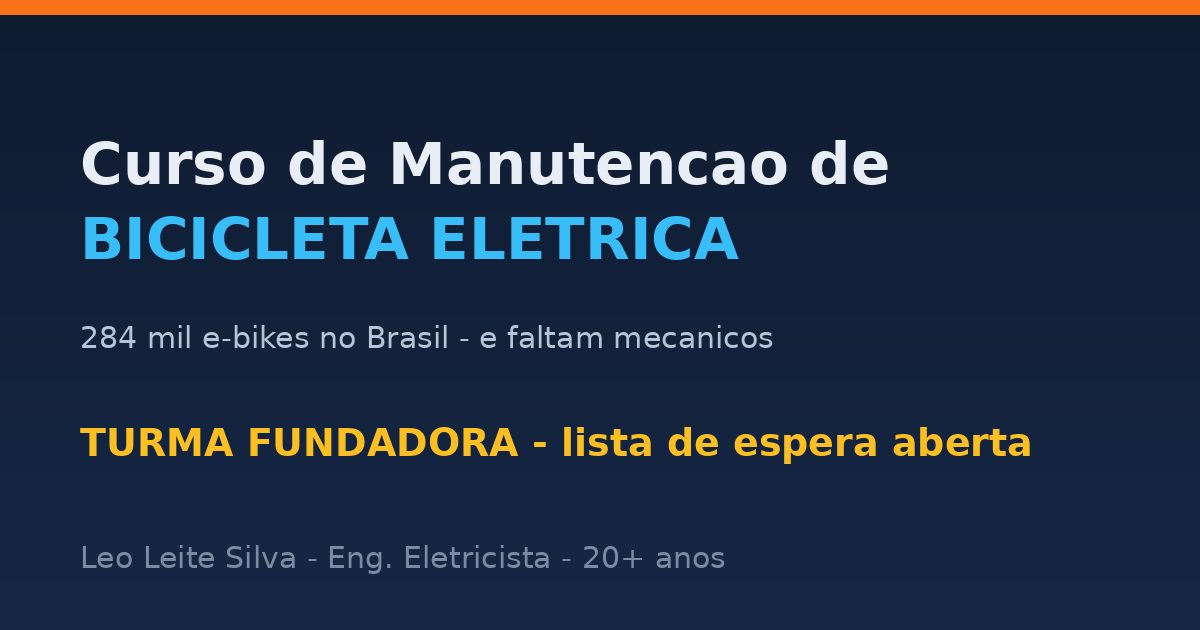
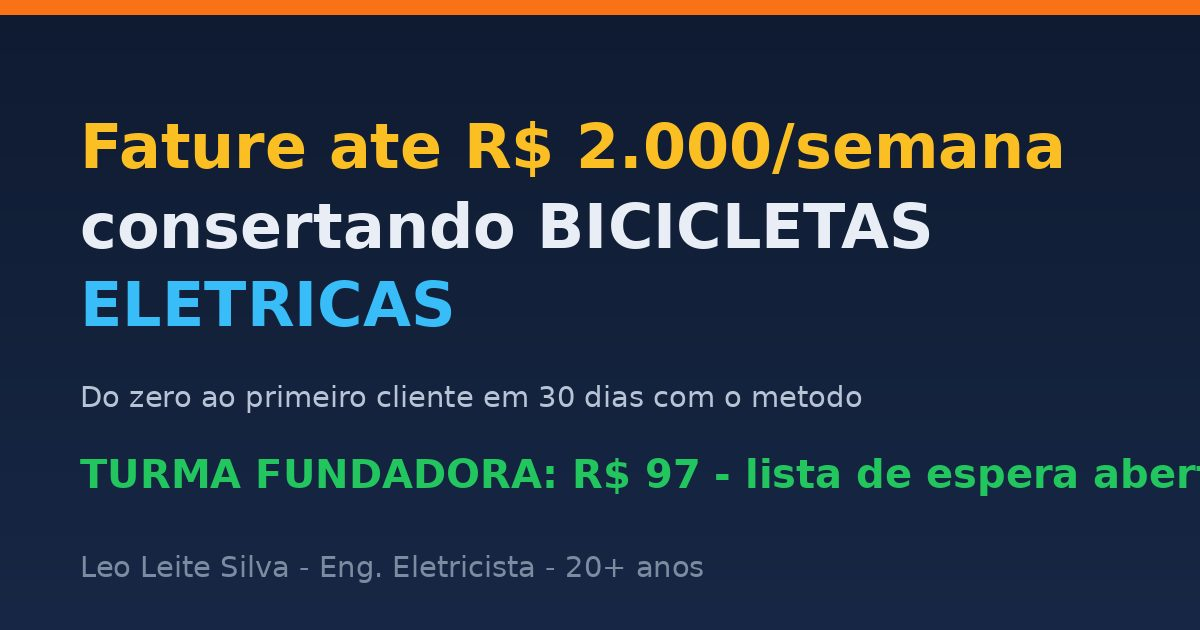
Headline com promessa específica e preço definido pelo autor (R$ 97)
- Headline nova: 'Fature até R$ 2.000 por semana consertando bicicletas
  elétricas — do zero ao primeiro cliente em 30 dias com o método'
- Bloco 'faça a conta' sustenta a promessa com preços reais de mercado
  (revisão R$ 150-300; 10 revisões = R$ 2.000/semana)
- Oferta de fundador atualizada para R$ 97 (menor preço do curso)
- Title, meta, og-image e roteiro de VSL alinhados à nova promessa
- Skill atualizada: pergunta de preço agora é aberta (decisão do usuário),
  nova pergunta 5b da métrica da promessa, fórmula da promessa específica
  obrigatória na headline (resultado numérico + prazo + entregável) com
  'conta na página', e gate obrigatório de aprovação das 3 headlines

Claude-Session: https://claude.ai/code/session_01U5WsPgLvWHzjd2fTvB7RAs

Changed region(s): [[0.0617, 0.181, 0.8942, 0.573], [0.0617, 0.6032, 1.0, 0.7841], [0.0617, 0.8444, 0.6167, 0.9349]]

diff --git a/curso-manutencao-bike-eletrica/index.html b/curso-manutencao-bike-eletrica/index.html
@@ -3,14 +3,14 @@
 <head>
 <meta charset="UTF-8">
 <meta name="viewport" content="width=device-width, initial-scale=1.0">
-<title>Curso de Manutenção de Bicicleta Elétrica — Turma Fundadora</title>
-<meta name="description" content="Aprenda manutenção de bicicleta elétrica e entre para a profissão que mais cresce na mobilidade. Lista de espera da turma fundadora com desconto exclusivo.">
+<title>Fature até R$ 2.000/semana Consertando Bicicleta Elétrica</title>
+<meta name="description" content="Do zero ao primeiro cliente em 30 dias: método de manutenção de bicicleta elétrica. Revisão custa R$ 150-300 e falta profissional. Turma fundadora por R$ 97.">
 <meta name="robots" content="index, follow">
 
 <meta property="og:type" content="website">
 <meta property="og:locale" content="pt_BR">
-<meta property="og:title" content="Curso de Manutenção de Bicicleta Elétrica — Turma Fundadora">
-<meta property="og:description" content="284 mil e-bikes rodando no Brasil e faltam mecânicos. Entre na lista de espera da turma fundadora com condição exclusiva.">
+<meta property="og:title" content="Fature até R$ 2.000/semana Consertando Bicicleta Elétrica">
+<meta property="og:description" content="Do zero ao primeiro cliente em 30 dias com o método. 284 mil e-bikes no Brasil e faltam mecânicos. Turma fundadora por R$ 97.">
 <meta property="og:image" content="assets/img/og.jpg">
 <meta name="twitter:card" content="summary_large_image">
 
@@ -101,6 +101,12 @@ h2{font-size:clamp(1.55rem,4vw,2.3rem);text-align:center;margin-bottom:14px;colo
 .stat-card b{display:block;color:var(--cyan);font-size:2.1rem;font-weight:800;line-height:1.1;margin-bottom:8px}
 .stat-card p{color:var(--gray-300);font-size:.93rem}
 .stat-src{text-align:center;color:var(--gray-500);font-size:.78rem;margin-top:18px}
+.conta-box{max-width:760px;margin:34px auto 0;background:var(--navy-700);border:2px solid var(--volt);
+  border-radius:var(--radius);padding:26px 28px;text-align:center}
+.conta-box h3{color:var(--volt);font-size:1.1rem;margin-bottom:10px}
+.conta-box p{color:var(--gray-100);font-size:1rem}
+.conta-box b{color:var(--white)}
+.conta-nota{margin-top:10px;font-size:.8rem;color:var(--gray-500)}
 
 /* DOR */
 .dor{background:linear-gradient(180deg,var(--navy-800),var(--navy-900))}
@@ -208,11 +214,12 @@ footer{padding:26px 20px;text-align:center;color:var(--gray-500);font-size:.84re
   <div class="container hero-grid">
     <div>
       <span class="badge">🔧 NOVA PROFISSÃO DA MOBILIDADE ELÉTRICA</span>
-      <h1>São <span class="hl">284 mil bicicletas elétricas</span> rodando no Brasil — e quase ninguém sabe consertá-las</h1>
+      <h1>Fature até <span class="hl">R$ 2.000 por semana</span> consertando bicicletas elétricas — do zero ao primeiro cliente em <span class="hl">30 dias</span> com o método</h1>
       <p class="subheadline">
-        Aprenda <strong>manutenção de bicicleta elétrica</strong> — motor, bateria de lítio,
-        controlador e diagnóstico — com um <strong>engenheiro eletricista com 20+ anos de
-        eletrônica</strong>, e cobre pelo serviço que as oficinas comuns não sabem fazer.
+        Uma revisão de e-bike custa <strong>R$ 150 a R$ 300</strong> — e são 284 mil rodando
+        no Brasil sem mecânico suficiente. O método te ensina <strong>motor, bateria e
+        diagnóstico</strong> com um engenheiro eletricista de 20+ anos, mesmo que você
+        <strong>nunca tenha mexido em elétrica</strong>.
       </p>
       <a class="cta-btn" href="#"><!-- TROCAR PELO LINK DA LISTA (WhatsApp/formulário) -->
         ⚡ QUERO ENTRAR NA TURMA FUNDADORA
@@ -266,6 +273,13 @@ footer{padding:26px 20px;text-align:center;color:var(--gray-500);font-size:.84re
       <div class="stat-card reveal"><b>R$ 511 mi</b><p>por ano é o tamanho do mercado, com projeção de +42% a 55%</p></div>
     </div>
     <p class="stat-src">Fontes: Aliança Bike (dados do setor 2024/2025) e Polo Industrial de Manaus.</p>
+    <div class="conta-box reveal">
+      <h3>💰 De onde vêm os R$ 2.000 por semana? Faça a conta:</h3>
+      <p><b>10 revisões × R$ 200</b> (preço médio de mercado: R$ 150–300) = <b class="hl">R$ 2.000</b>.
+      E um único conserto maior — troca de bateria ou controlador — pode passar de <b>R$ 500</b>.
+      Com a agenda cheia, o teto é seu.</p>
+      <p class="conta-nota">Resultado depende da sua dedicação e da demanda da sua região — o método te leva do zero à primeira agenda de clientes.</p>
+    </div>
   </div>
 </section>
 
@@ -351,7 +365,7 @@ footer{padding:26px 20px;text-align:center;color:var(--gray-500);font-size:.84re
     <div class="fundador-box reveal">
       <h3>🏁 Condição de Fundador</h3>
       <ul>
-        <li><b>Menor preço que o curso terá</b> — o lançamento está previsto na faixa de R$ 297; fundadores pagam menos</li>
+        <li><b>R$ 97 — o menor preço que o curso terá</b>: garantido só para quem está na lista; as próximas turmas não terão esse valor</li>
         <li><b>Acesso antecipado</b> às aulas antes da abertura geral</li>
         <li><b>Voz ativa</b>: os fundadores ajudam a definir os módulos prioritários</li>
         <li><b>Bônus de fundador</b> exclusivo, anunciado na abertura</li>

diff --git a/.claude/skills/landing-page-alta-conversao/SKILL.md b/.claude/skills/landing-page-alta-conversao/SKILL.md
@@ -99,12 +99,26 @@ vazio (bug real encontrado em teste).
 - Sem prova social ainda? Seção fica pronta e oculta no código, e a
   autoridade do autor carrega a página. NUNCA inventar depoimento.
 
-### Pergunta 5 — Preço e oferta
-> "Qual o preço? Existe preço 'cheio' e preço promocional? Parcelamento?
-> Tem bônus inclusos?"
+### Pergunta 5 — Preço e oferta (PERGUNTA ABERTA — nunca ofereça faixas prontas)
+> "Qual preço VOCÊ quer cobrar? Me diga: preço cheio (âncora), preço
+> promocional, parcelamento e bônus inclusos."
 
+- O preço é decisão do usuário: pergunte aberto e espere os números dele.
+  Só sugira faixa se ele pedir ajuda — e aí apresente pesquisa de preços
+  dos concorrentes do nicho como base, não chute.
 - Coletar: preço âncora (de), preço real (por), parcelas ("12x de R$ X"),
   bônus com valor individual de cada um.
+
+### Pergunta 5b — A MÉTRICA DA PROMESSA (obrigatória)
+> "Qual resultado NUMÉRICO seu cliente/aluno pode alcançar, e em quanto
+> tempo? (ex.: 'faturar R$ 2.000/semana', 'perder 15 kg', 'reduzir a conta
+> de luz em 20%') — e o que sustenta esse número?"
+
+- Essa resposta vira a headline (Fase 3). Sem métrica + prazo, a headline
+  sai genérica e não converte.
+- Se o usuário não souber o número, **pesquise os preços/resultados reais
+  do mercado** e proponha uma promessa defensável (ex.: revisão de e-bike
+  custa R$ 150–300 → "10 revisões/semana = R$ 2.000").
 
 ### Pergunta 6 — Link de checkout
 > "Você já tem o link de pagamento (Hotmart, Kiwify, Eduzz, outra
@@ -150,11 +164,35 @@ termos mais buscados do nicho (Fase 0.1) e apresente as 3 melhores.**
 **Teste 4U** (nota 1–4 cada; refazer se < 12): Útil, Urgente, Único,
 Ultra-específico.
 
-Fórmulas: `[Resultado] em [tempo/passos] sem [maior objeção]` ·
-`Como [público] consegue [resultado] mesmo [obstáculo]` ·
-`O único [categoria] que [diferencial]` · `Pare de [dor]. Comece a [resultado].`
+**FÓRMULA DA PROMESSA ESPECÍFICA (obrigatória na headline principal):**
+
+> `[Verbo de resultado] + [MÉTRICA NUMÉRICA] + [PRAZO] + [com o ENTREGÁVEL: método/guia/kit/curso] (+ sem [objeção])`
+
+A headline NUNCA pode ser genérica/informativa — precisa prometer um ganho
+mensurável com prazo. Exemplos do padrão:
+- "Fature até R$ 2.000 por semana consertando bicicleta elétrica — do zero
+  ao primeiro cliente em 30 dias com o método"
+- "Perca 15 kg em 8 semanas com o guia, sem cortar o que você ama"
+- "Dobre o número de clientes em 2 semanas com esse kit"
+- "Reduza sua conta de luz em 20% em 30 dias com esse método"
+
+**Regras da promessa:**
+- Promessa de dinheiro/resultado exige **a conta na página**: um bloco que
+  mostra a matemática com preços reais pesquisados ("revisão custa
+  R$ 150–300 → 10 revisões = R$ 2.000/semana"). Promessa sem lastro
+  destrói confiança e é antiética.
+- Use "até"/"pode" quando o resultado é potencial, nunca garantia de renda.
+- A métrica vem da Pergunta 5b da entrevista.
+
+Fórmulas complementares: `Como [público] consegue [resultado] mesmo
+[obstáculo]` · `O único [categoria] que [diferencial]` ·
+`Pare de [dor]. Comece a [resultado].`
 
 Sempre resultado, nunca característica. Subheadline = mecanismo + para quem.
+
+**GATE OBRIGATÓRIO**: apresente as 3 melhores headlines ao usuário
+(AskUserQuestion) e só monte a página com a escolhida. Pular esta etapa é
+falha grave — o dono do produto decide a promessa.
 
 ---
 

diff --git a/curso-manutencao-bike-eletrica/roteiro-vsl.md b/curso-manutencao-bike-eletrica/roteiro-vsl.md
@@ -8,10 +8,10 @@ Fale como quem conversa, não como quem lê.
 ---
 
 **[0:00–0:15 — GANCHO]**
-"Existem hoje 284 mil bicicletas elétricas rodando no Brasil — e quando uma
-delas quebra, o dono descobre uma coisa: quase ninguém sabe consertar.
-Eu vou te mostrar como transformar essa falta de profissional na sua
-nova fonte de renda."
+"Uma revisão de bicicleta elétrica custa de 150 a 300 reais. Dez revisões
+numa semana são 2 mil reais no seu bolso — e o Brasil tem 284 mil e-bikes
+rodando com quase nenhum mecânico que saiba mexer nelas. Deixa eu te
+mostrar como entrar nessa profissão em 30 dias."
 
 **[0:15–0:45 — IDENTIFICAÇÃO]**
 "Se você trabalha com bicicleta, você já viveu isso: chega uma e-bike com
@@ -33,10 +33,10 @@ ligar um motor na bancada — 15 a 20 segundos de demonstração real valem mais
 que qualquer promessa]"
 
 **[2:00–2:30 — OFERTA FUNDADOR]**
-"O curso vai abrir primeiro para a turma fundadora: quem estiver na lista de
-espera vai ter o menor preço que esse curso vai custar, acesso antecipado às
-aulas e ainda vai me ajudar a escolher os módulos prioritários. A lista é
-gratuita e não te obriga a nada."
+"O curso vai abrir primeiro para a turma fundadora por 97 reais — o menor
+preço que ele vai ter; as próximas turmas não pagarão isso. Quem está na
+lista ainda leva acesso antecipado e escolhe comigo os módulos prioritários.
+Entrar na lista é grátis e não te obriga a nada."
 
 **[2:30–3:00 — CTA]**
 "Clica no botão aqui embaixo e entra na lista da turma fundadora. É de graça,

diff --git a/curso-manutencao-bike-eletrica/PENDENCIAS.md b/curso-manutencao-bike-eletrica/PENDENCIAS.md
@@ -11,9 +11,12 @@
    e-bike/bancada (WebP < 100 KB) quando tiver
 4. **Gravar a VSL** com o `roteiro-vsl.md` e embutir na página (thumbnail
    + clique para carregar o player)
-5. **Preço previsto**: a página cita "faixa de R$ 297" — confirmar antes
-   do lançamento (a promessa de fundador é pagar MENOS que o preço de
-   lançamento; precisa ser cumprida)
+5. **Preço de fundador R$ 97**: a página promete que é o menor preço que o
+   curso terá e que as próximas turmas não pagarão isso — essa promessa
+   PRECISA ser cumprida no lançamento (suba o preço depois da fundadora)
+5b. **Promessa "até R$ 2.000/semana"**: sustentada na página pela conta
+   (10 revisões × R$ 200, preços de mercado). Mantenha o bloco da conta
+   sempre visível junto da promessa
 6. **Depoimentos**: quando os primeiros fundadores concluírem, preencher a
    seção de prova social (está oculta no código) e reativá-la
 7. **Domínio**: atualizar `og:image` e adicionar `canonical` quando o
